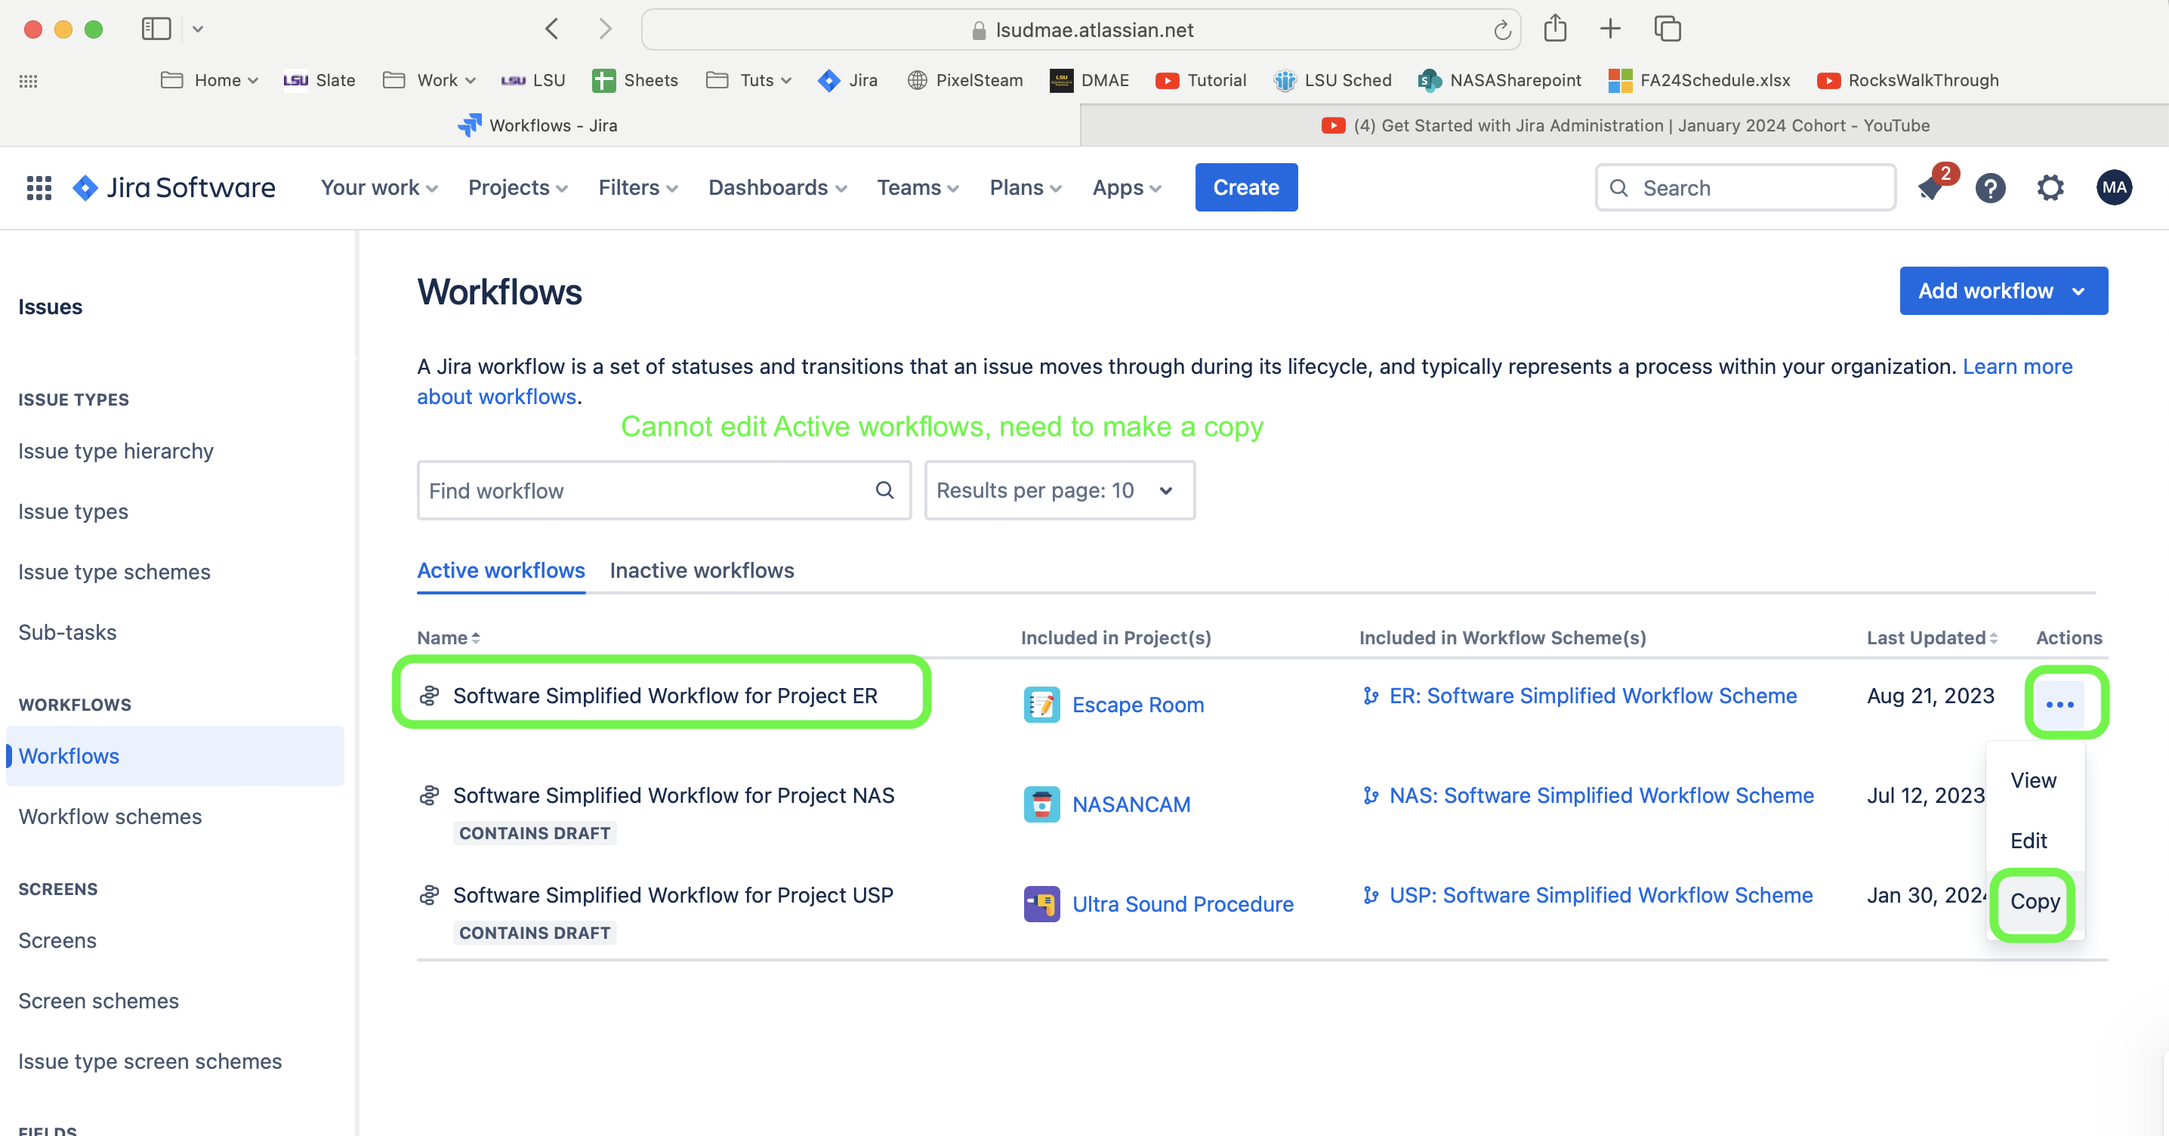
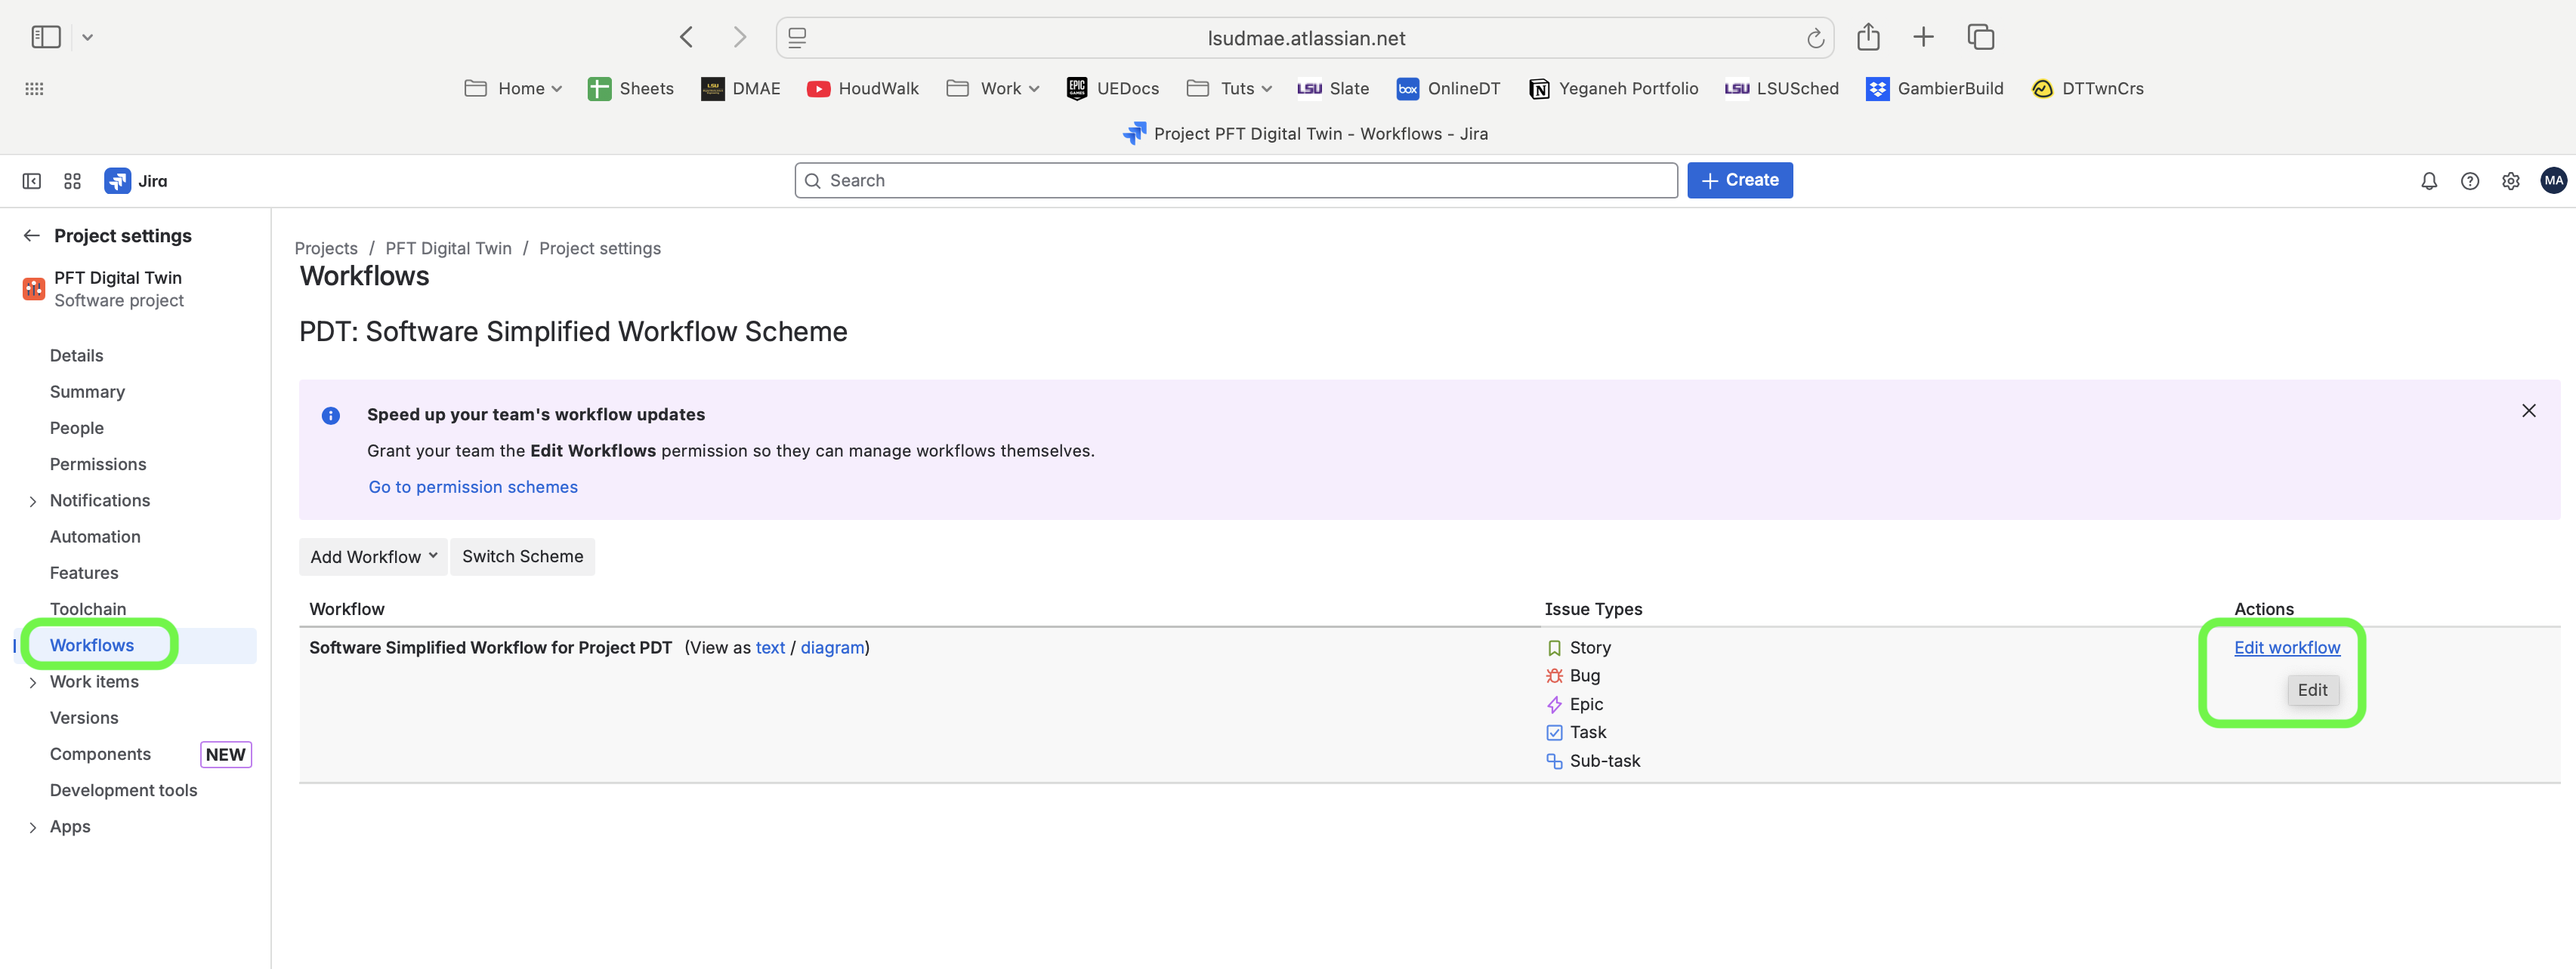
updating new screenshots

diff --git a/project-settings/README.md b/project-settings/README.md
@@ -14,7 +14,7 @@ Customizing project with classroom tested workflows.
 
 ##### `Step 1.`\|`JIRASOFT`| :small_blue_diamond:
 
-After you create the project it goes to project settings (or click on the three ellipses `...` next to your project and select `settings`)
+After you create the project it goes to project settings (or click on the three ellipses `...` next to your project and select `Project Settings`). Select `Category` and `Project Lead.`
 
 ![got to settings workspace](images/ProjectSettingsDetails.png)
 
@@ -22,40 +22,54 @@ After you create the project it goes to project settings (or click on the three 
 
 ##### `Step 2.`\|`JIRASOFT`| :small_blue_diamond: :small_blue_diamond: 
 
-You cannot edit an active **Workflow**. The first thing we need to do is make a copy to then make changes.  *Press* the <kbd>Settings</kbd> gear in the top right hand side and select the **Issues** tab.
+Nothing to edit in Summary, summarizes all the settings.
 
-![got to settings workspace](images/settingsIssues.png)
-Select the workspace you want to edit and make a copy of it.  Please remember to delete this workflow if it will no longer be used and becomes inactive.
-
-![select and copy active workspace](images/copyWorkflow.png)
+![summary of settings](images/Summary.png)
 
 ![](../images/line2.png)
 
 ##### `Step 3.`\|`JIRASOFT`| :small_blue_diamond: :small_blue_diamond: :small_blue_diamond:
 
-Add and remove any statuses. Try not to keep the **all** flows that are default and limit movement between columns as well as permissions of who can move a task to **Done**. Remember to give permission to both directions (which nodes can go forward and which can go back).
+In the **People** tab add your `Developers` and `Admins`.
 
-![ad statuses and adjust flow](images/createWorkflow.png)
+![add developers and admin](images/AddDevsAdmins.png)
+
+
 
 ![](../images/line2.png)
 
 ##### `Step 4.`\|`JIRASOFT`| :small_blue_diamond: :small_blue_diamond: :small_blue_diamond: :small_blue_diamond:
 
-Now we need to add the extra lanes that match the workflow.  Be careful that you need to all the workflow nodes in an active column.  In the top right select <kbd>...</kbd> **Configure Board** on thte top right of the active project page in the **Active Sprint**.
+Permissions
 
-![configure board on project](images/configureBoard.png)
+Double check your permission settings to ensure that the administrators and developers have the permissions you want.
+
+![permissions](images/Permissions.png)
 
 ![](../images/line2.png)
 
 ##### `Step 5.`\|`JIRASOFT`| :small_orange_diamond:
 
-Add the new columns for each new node you created.  Then drag the unmapped statuses to the new empty columns.  Move them into a logical order that matches your above workflow. 
 
-![add remove columns and assign statuses](images/CreateNewColumnsAndMapStatuses.png)
+Select the `Workflows` tab and then `Edit Workflow`. 
 
+![edit workflow](images/copyWorkflow.png)
 ![](../images/line2.png)
 
 ##### `Step 6.`\|`JIRASOFT`| :small_orange_diamond: :small_blue_diamond:
+
+
+Add and remove any statuses. Try not to keep the **all** flows that are default and limit movement between columns as well as permissions of who can move a task to **Done**. Remember to give permission to both directions (which nodes can go forward and which can go back).
+
+![ad statuses and adjust flow](images/createWorkflow.png)
+Now we need to add the extra lanes that match the workflow.  Be careful that you need to all the workflow nodes in an active column.  In the top right select <kbd>...</kbd> **Configure Board** on thte top right of the active project page in the **Active Sprint**.
+
+![configure board on project](images/configureBoard.png)
+
+Add the new columns for each new node you created.  Then drag the unmapped statuses to the new empty columns.  Move them into a logical order that matches your above workflow.
+
+![add remove columns and assign statuses](images/CreateNewColumnsAndMapStatuses.png)
+
 
 In the project press **Project Settings** and select <kbd>Add Workflows | Add Existing</kbd>.  Select the workflow you were editing then press <kbd>Next</kbd>.  Follow the next steps and make sure you press <kbd>Publish</kbd> at the end!
 
